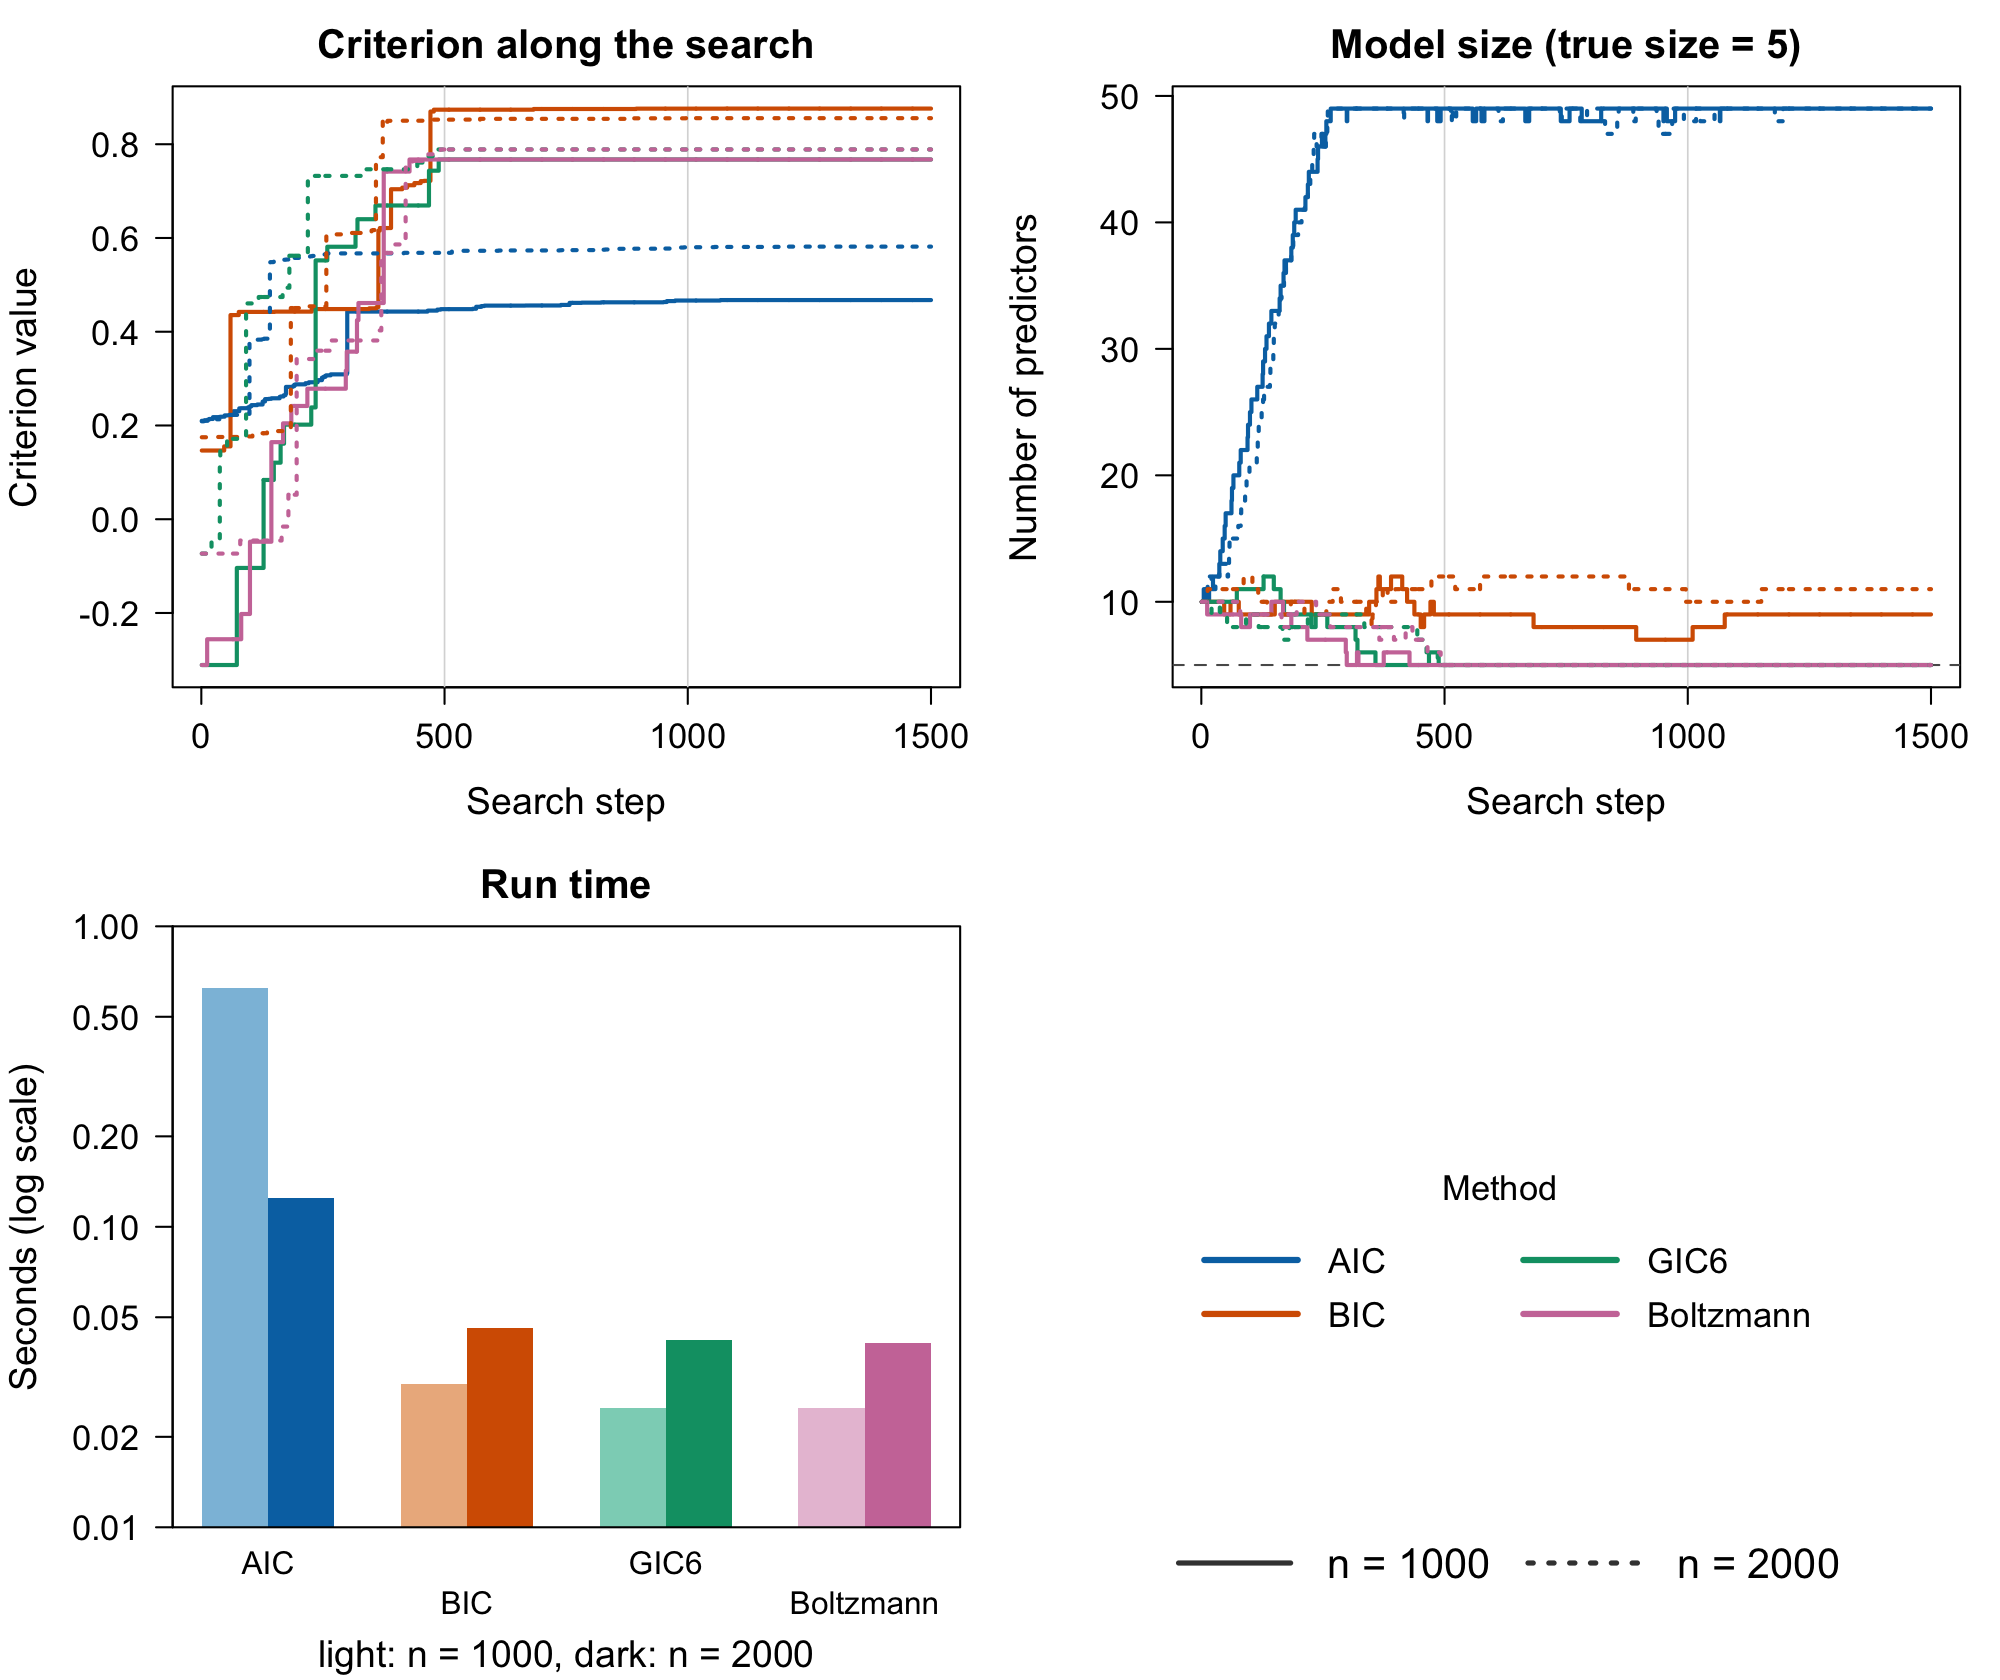
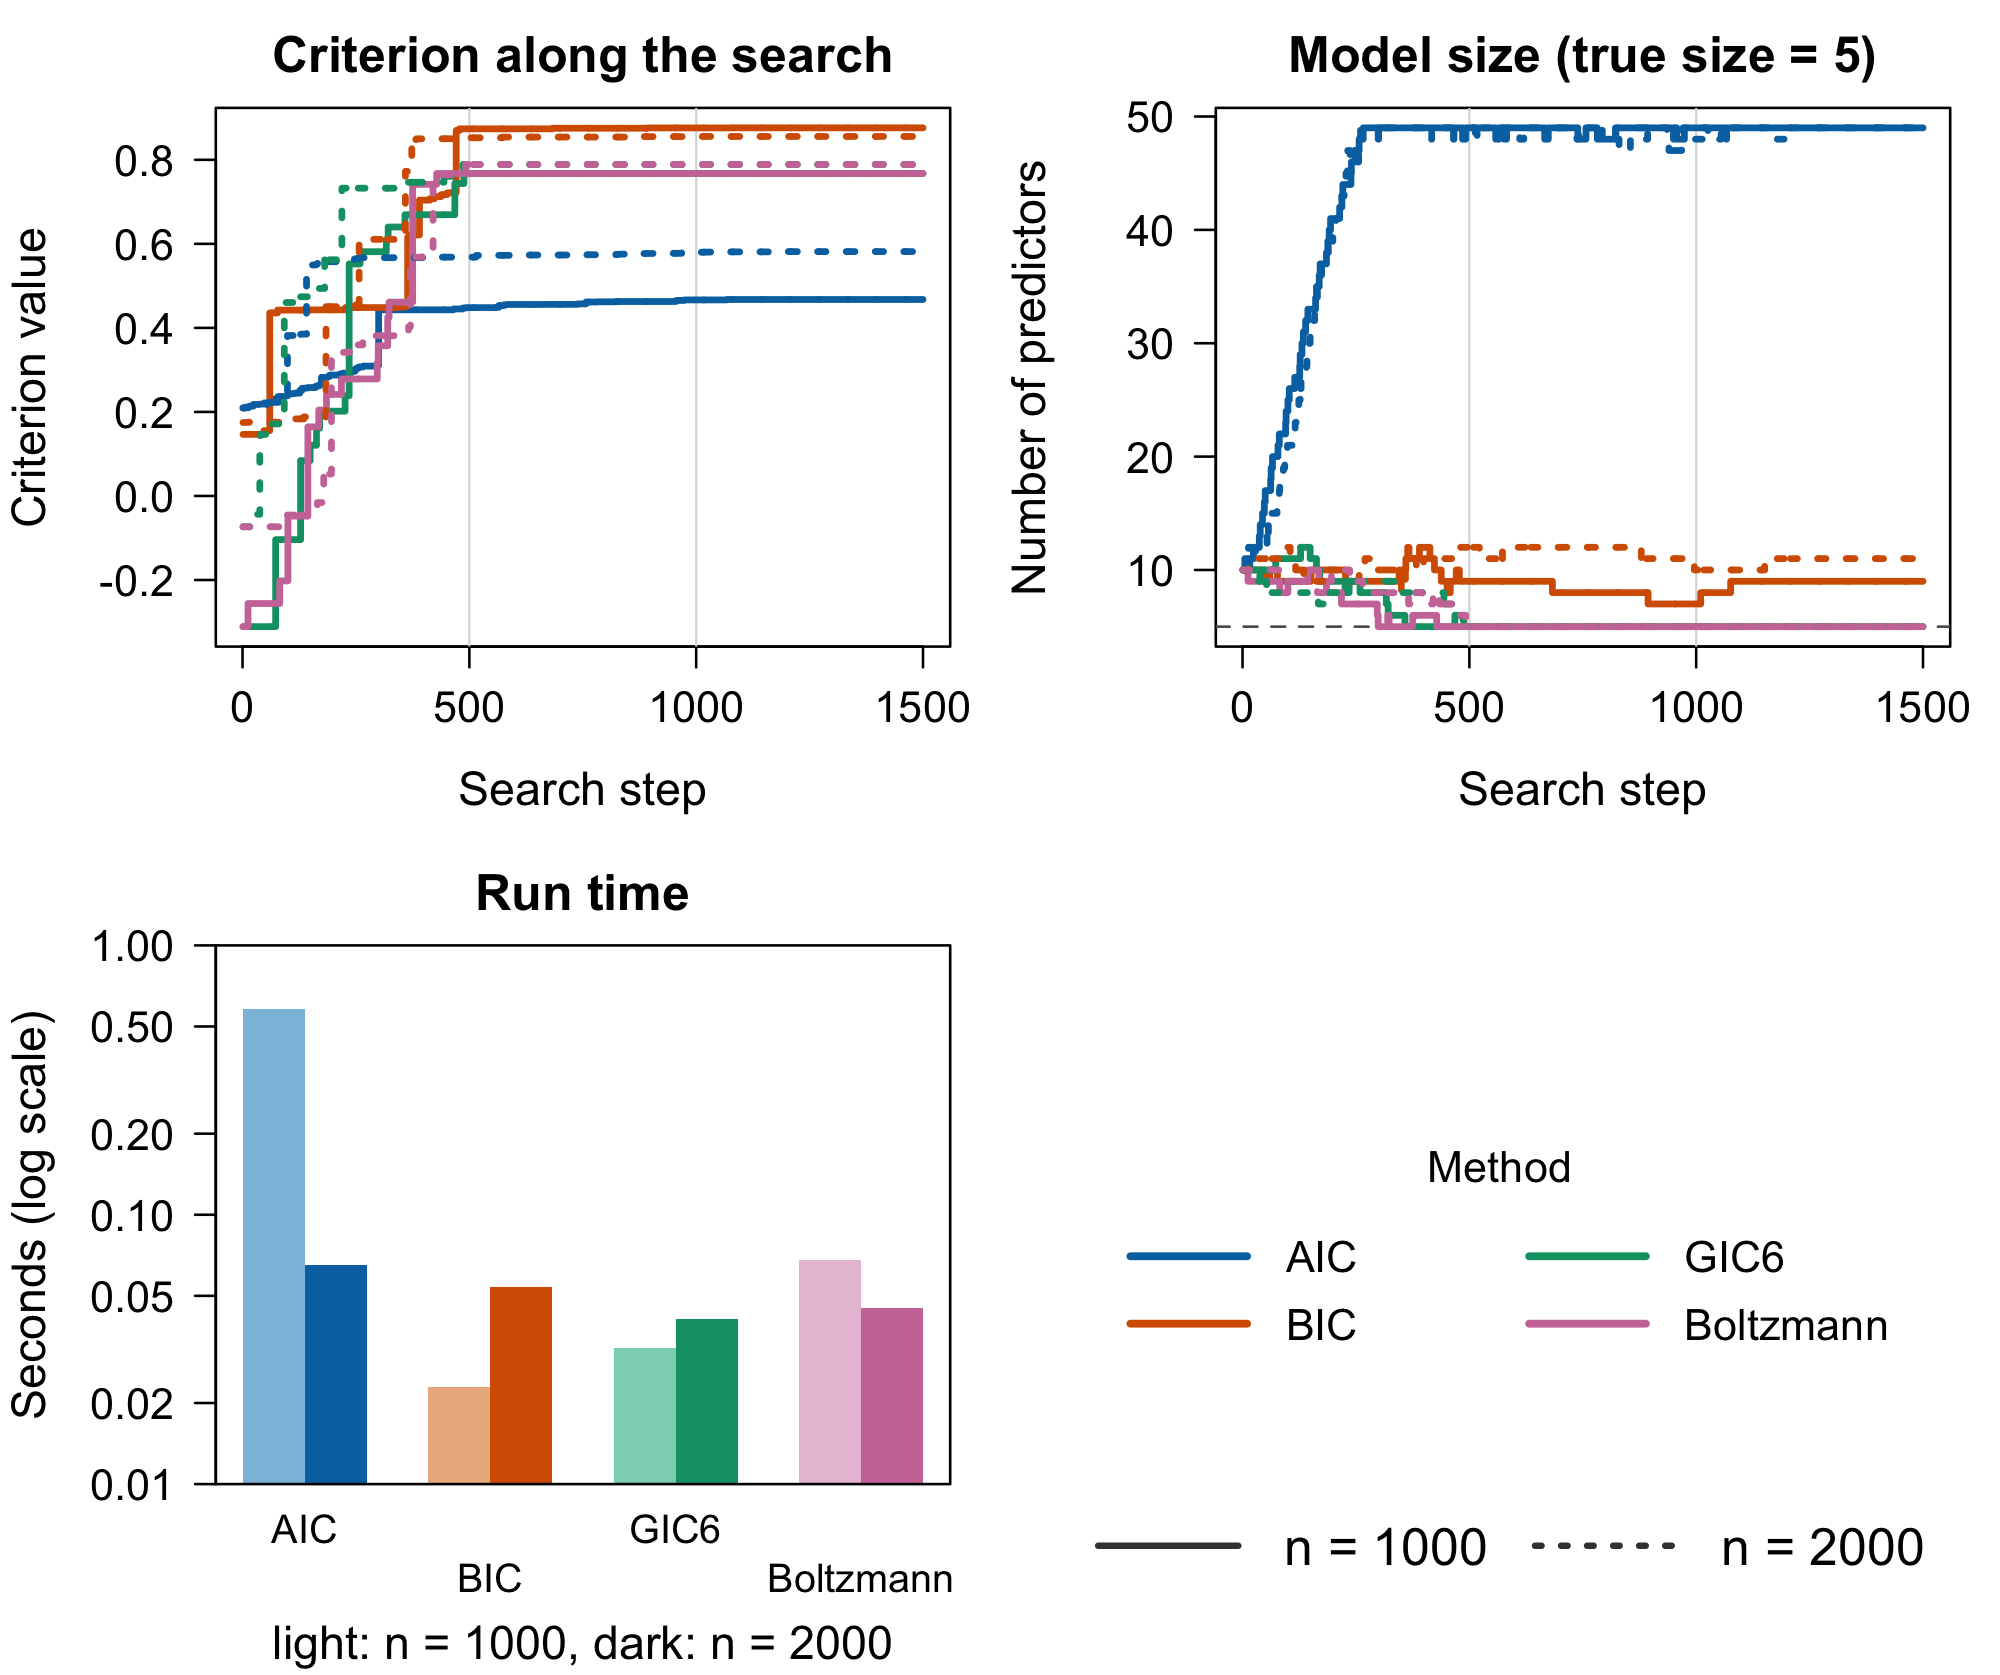
Figures: larger text and thicker lines in the example plots
Draw on an 8 x 6.7 in canvas at 250 dpi (was 10 x 8.4 in at 200 dpi), so the
images keep their pixel size but every element is about 25% larger. Rerunning
the examples refreshed the run times in the README and the article.

diff --git a/README.md b/README.md
@@ -308,18 +308,18 @@ Y <- LP_to_Y(X, beta, family = "Normal", std = sqrt(sum(beta^2) / 0.71))
 fits <- compare_criteria(X, Y, 1:p, k = p, Nsim = 5)
 selection_table(fits, true_cols)
 #>                 size false_pos false_neg seconds
-#> n1000 AIC        152       147         0    0.67
-#> n1000 BIC          8         3         0    0.60
-#> n1000 GIC6         5         0         0    0.39
-#> n1000 Boltzmann    5         0         0    0.51
-#> n1000 Lasso       22        17         0    0.85
-#> n1000 AdaLasso    25        20         0    1.62
-#> n2000 AIC        116       111         0    0.74
-#> n2000 BIC          9         4         0    0.75
-#> n2000 GIC6         5         0         0    0.67
-#> n2000 Boltzmann    5         0         0    0.62
-#> n2000 Lasso       18        13         0    0.95
-#> n2000 AdaLasso    24        19         0    2.61
+#> n1000 AIC        152       147         0    0.48
+#> n1000 BIC          8         3         0    0.48
+#> n1000 GIC6         5         0         0    0.40
+#> n1000 Boltzmann    5         0         0    0.30
+#> n1000 Lasso       22        17         0    0.80
+#> n1000 AdaLasso    25        20         0    1.57
+#> n2000 AIC        116       111         0    0.66
+#> n2000 BIC          9         4         0    0.63
+#> n2000 GIC6         5         0         0    0.56
+#> n2000 Boltzmann    5         0         0    0.51
+#> n2000 Lasso       18        13         0    0.92
+#> n2000 AdaLasso    24        19         0    2.55
 ```
 
 ![Criteria, model size and run time, linear model with p = 500](man/figures/README-linear-runtime.png)
@@ -346,18 +346,18 @@ fits <- compare_criteria(X, Y_multi, 1:p, k = p, Nsim = 5,
                          lasso_family = "mgaussian", T = 0.05)
 selection_table(fits, true_union)
 #>                 size false_pos false_neg seconds
-#> n1000 AIC        102        80         2    0.51
-#> n1000 BIC         20         0         4    0.54
-#> n1000 GIC6        19         0         5    0.44
-#> n1000 Boltzmann   26         7         5    0.48
-#> n1000 Lasso      129       106         1    2.39
-#> n1000 AdaLasso    21         2         5    5.16
-#> n2000 AIC         69        45         0    0.82
-#> n2000 BIC         20         0         4    0.72
-#> n2000 GIC6        19         0         5    0.65
-#> n2000 Boltzmann   68        47         3    0.65
-#> n2000 Lasso      131       107         0    3.87
-#> n2000 AdaLasso    41        17         0    8.49
+#> n1000 AIC        102        80         2    0.49
+#> n1000 BIC         20         0         4    0.67
+#> n1000 GIC6        19         0         5    0.40
+#> n1000 Boltzmann   26         7         5    0.43
+#> n1000 Lasso      129       106         1    2.24
+#> n1000 AdaLasso    21         2         5    5.25
+#> n2000 AIC         69        45         0    0.88
+#> n2000 BIC         20         0         4    0.62
+#> n2000 GIC6        19         0         5    0.55
+#> n2000 Boltzmann   68        47         3    0.63
+#> n2000 Lasso      131       107         0    3.67
+#> n2000 AdaLasso    41        17         0    8.25
 ```
 
 ![Criteria, model size and run time, multivariate normal response](man/figures/README-multivariate-runtime.png)
@@ -391,18 +391,18 @@ y_pois <- LP_to_Y(X, beta, family = "Poisson")
 fits <- compare_glm(y_pois, y_pois, "poisson", family = "Poisson", T = 0.001)
 selection_table(fits, true_cols)
 #>                 size false_pos false_neg seconds
-#> n1000 AIC         48        43         0    0.37
-#> n1000 BIC          9         4         0    0.02
-#> n1000 GIC6         5         0         0    0.06
-#> n1000 Boltzmann    5         0         0    0.07
-#> n1000 Lasso       29        24         0    1.92
-#> n1000 AdaLasso     5         0         0    2.12
-#> n2000 AIC         49        44         0    0.19
+#> n1000 AIC         48        43         0    0.32
+#> n1000 BIC          9         4         0    0.04
+#> n1000 GIC6         5         0         0    0.07
+#> n1000 Boltzmann    5         0         0    0.02
+#> n1000 Lasso       29        24         0    2.02
+#> n1000 AdaLasso     5         0         0    2.09
+#> n2000 AIC         49        44         0    0.07
 #> n2000 BIC         10         5         0    0.05
 #> n2000 GIC6         5         0         0    0.09
 #> n2000 Boltzmann    5         0         0    0.04
-#> n2000 Lasso       51        46         0    1.53
-#> n2000 AdaLasso     5         0         0    4.13
+#> n2000 Lasso       51        46         0    1.43
+#> n2000 AdaLasso     5         0         0    3.96
 
 # Coefficients of the GIC6 model for n = 2000, intercept first
 round(Beta_estimate(X[, last_model(fits$n2000$GIC6)], y_pois, family = "Poisson"), 2)
@@ -419,18 +419,18 @@ fits <- compare_glm(y_binom, cbind(10 - y_binom, y_binom), "binomial",
                     family = "Binomial", n_trials = 10)
 selection_table(fits, true_cols)
 #>                 size false_pos false_neg seconds
-#> n1000 AIC         49        46         2    0.17
-#> n1000 BIC          7         2         0    0.15
-#> n1000 GIC6         5         0         0    0.02
-#> n1000 Boltzmann    5         0         0    0.03
-#> n1000 Lasso       29        24         0    1.44
-#> n1000 AdaLasso    35        30         0    2.89
-#> n2000 AIC         48        46         3    0.14
-#> n2000 BIC          7         2         0    0.05
+#> n1000 AIC         49        46         2    0.15
+#> n1000 BIC          7         2         0    0.02
+#> n1000 GIC6         5         0         0    0.03
+#> n1000 Boltzmann    5         0         0    0.02
+#> n1000 Lasso       29        24         0    1.38
+#> n1000 AdaLasso    35        30         0    2.87
+#> n2000 AIC         48        46         3    0.07
+#> n2000 BIC          7         2         0    0.15
 #> n2000 GIC6         5         0         0    0.10
-#> n2000 Boltzmann    5         0         0    0.05
-#> n2000 Lasso       39        34         0    1.75
-#> n2000 AdaLasso     5         0         0    5.18
+#> n2000 Boltzmann    5         0         0    0.04
+#> n2000 Lasso       39        34         0    1.68
+#> n2000 AdaLasso     5         0         0    4.80
 ```
 
 ![Criteria, model size and run time, binomial response](man/figures/README-binomial-runtime.png)
@@ -447,13 +447,13 @@ y_mn <- LP_to_Y(X, B_mn, family = "Multinomial", n_categories = 3)
 fits <- compare_glm(y_mn, NULL, NULL, family = "Multinomial", n_categories = 3)
 selection_table(fits, true_cols)
 #>                 size false_pos false_neg seconds
-#> n1000 AIC         49        47         3    0.15
-#> n1000 BIC          7         2         0    0.03
-#> n1000 GIC6         5         0         0    0.03
+#> n1000 AIC         49        47         3    0.12
+#> n1000 BIC          7         2         0    0.02
+#> n1000 GIC6         5         0         0    0.02
 #> n1000 Boltzmann    5         0         0    0.02
-#> n2000 AIC         49        45         1    0.16
+#> n2000 AIC         49        45         1    0.21
 #> n2000 BIC          6         1         0    0.05
-#> n2000 GIC6         5         0         0    0.17
+#> n2000 GIC6         5         0         0    0.05
 #> n2000 Boltzmann   13         8         0    0.05
 ```
 
@@ -478,14 +478,14 @@ y_surv <- survival::Surv(y_cox[, "time"], y_cox[, "status"])
 fits <- compare_glm(y_cox, NULL, NULL, family = "Cox", T = 0.001)
 selection_table(fits, true_cols)
 #>                 size false_pos false_neg seconds
-#> n1000 AIC         49        47         3    0.62
-#> n1000 BIC          9         4         0    0.03
-#> n1000 GIC6         5         0         0    0.02
-#> n1000 Boltzmann    5         0         0    0.03
-#> n2000 AIC         49        46         2    0.12
+#> n1000 AIC         49        47         3    0.58
+#> n1000 BIC          9         4         0    0.02
+#> n1000 GIC6         5         0         0    0.03
+#> n1000 Boltzmann    5         0         0    0.07
+#> n2000 AIC         49        46         2    0.07
 #> n2000 BIC         11         6         0    0.05
 #> n2000 GIC6         5         0         0    0.04
-#> n2000 Boltzmann    5         0         0    0.04
+#> n2000 Boltzmann    5         0         0    0.05
 
 # Coefficients of the GIC6 model for n = 2000, from survival::coxph()
 round(unname(coef(survival::coxph(y_surv ~ X[, last_model(fits$n2000$GIC6)]))), 2)
